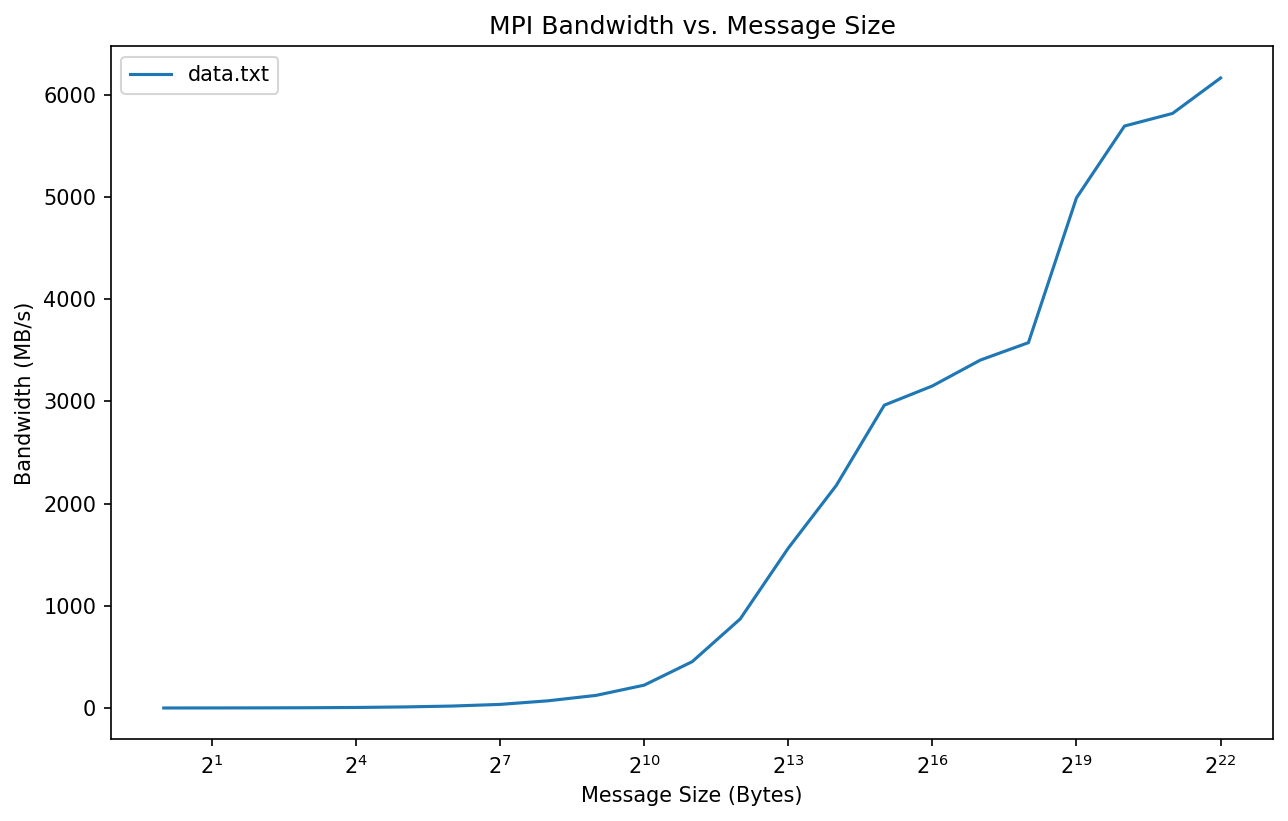
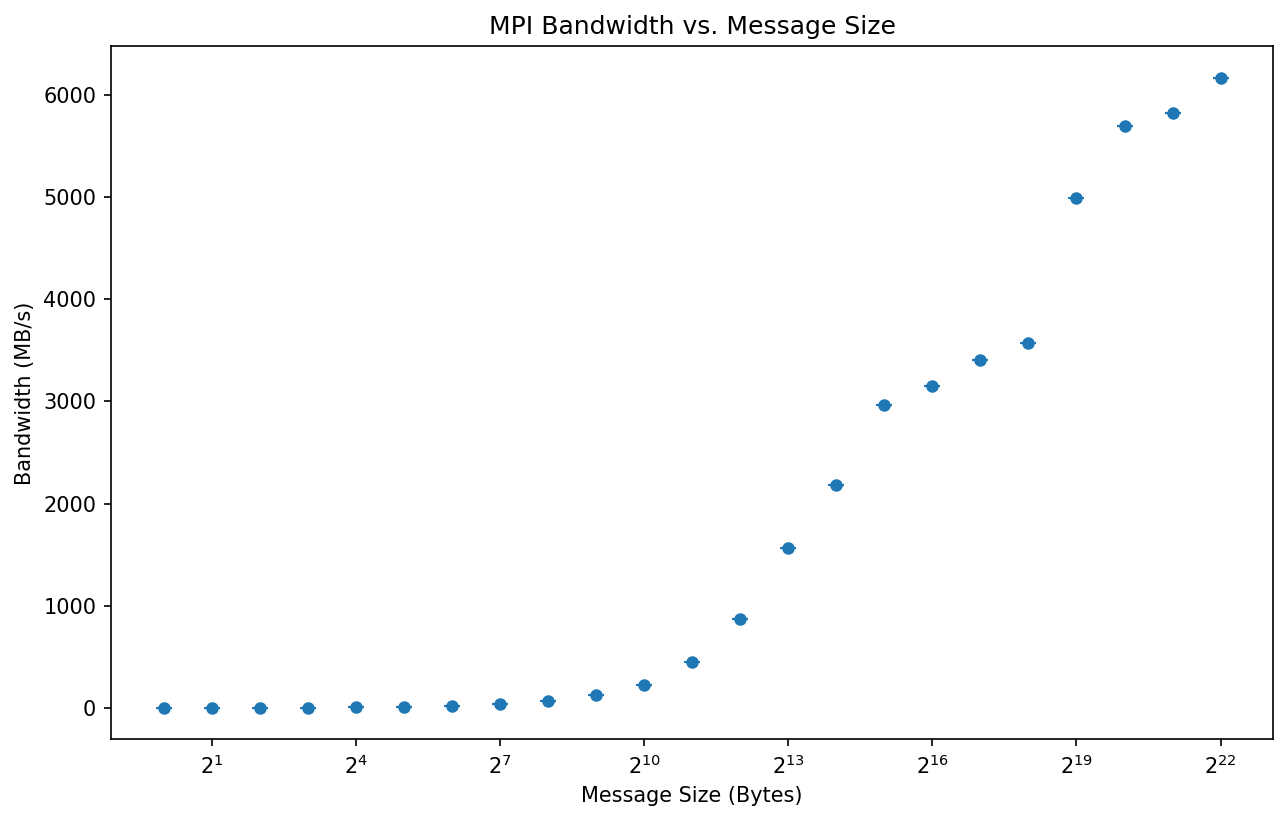
Add second dataset, switch to scatter plot with std deviation bars
- data2.txt: second benchmark run
- config.yml: include data2.txt
- plot.py: aggregate datasets, show mean ± std as scatter with error bars

diff --git a/plot.py b/plot.py
@@ -2,7 +2,6 @@ import argparse
 import yaml
 import pandas as pd
 import matplotlib.pyplot as plt
-import seaborn as sns
 
 
 def main():
@@ -13,19 +12,24 @@ def main():
     with open(args.config) as f:
         config = yaml.safe_load(f)
 
-    fig, ax = plt.subplots(figsize=(10, 6))
-
+    frames = []
     for dataset in config["datasets"]:
-        file = dataset["file"]
-        label = dataset.get("label", file)
-        df = pd.read_csv(file, sep=r'\s+', comment='#', names=['size', 'bandwidth'])
-        sns.lineplot(data=df, x='size', y='bandwidth', label=label, ax=ax)
+        df = pd.read_csv(dataset["file"], sep=r'\s+', comment='#', names=['size', 'bandwidth'])
+        frames.append(df)
+
+    combined = pd.concat(frames)
+    stats = combined.groupby('size')['bandwidth'].agg(['mean', 'std']).reset_index()
+
+    fig, ax = plt.subplots(figsize=(10, 6))
+    ax.errorbar(
+        stats['size'], stats['mean'], yerr=stats['std'],
+        fmt='o', capsize=4, elinewidth=1.2, markersize=5
+    )
 
     ax.set_xscale('log', base=2)
     ax.set_xlabel("Message Size (Bytes)")
     ax.set_ylabel("Bandwidth (MB/s)")
     ax.set_title(config.get("title", "MPI Bandwidth vs. Message Size"))
-    ax.legend()
 
     output = config.get("output", "bandwidth_plot.png")
     plt.savefig(output, dpi=150, bbox_inches='tight')
